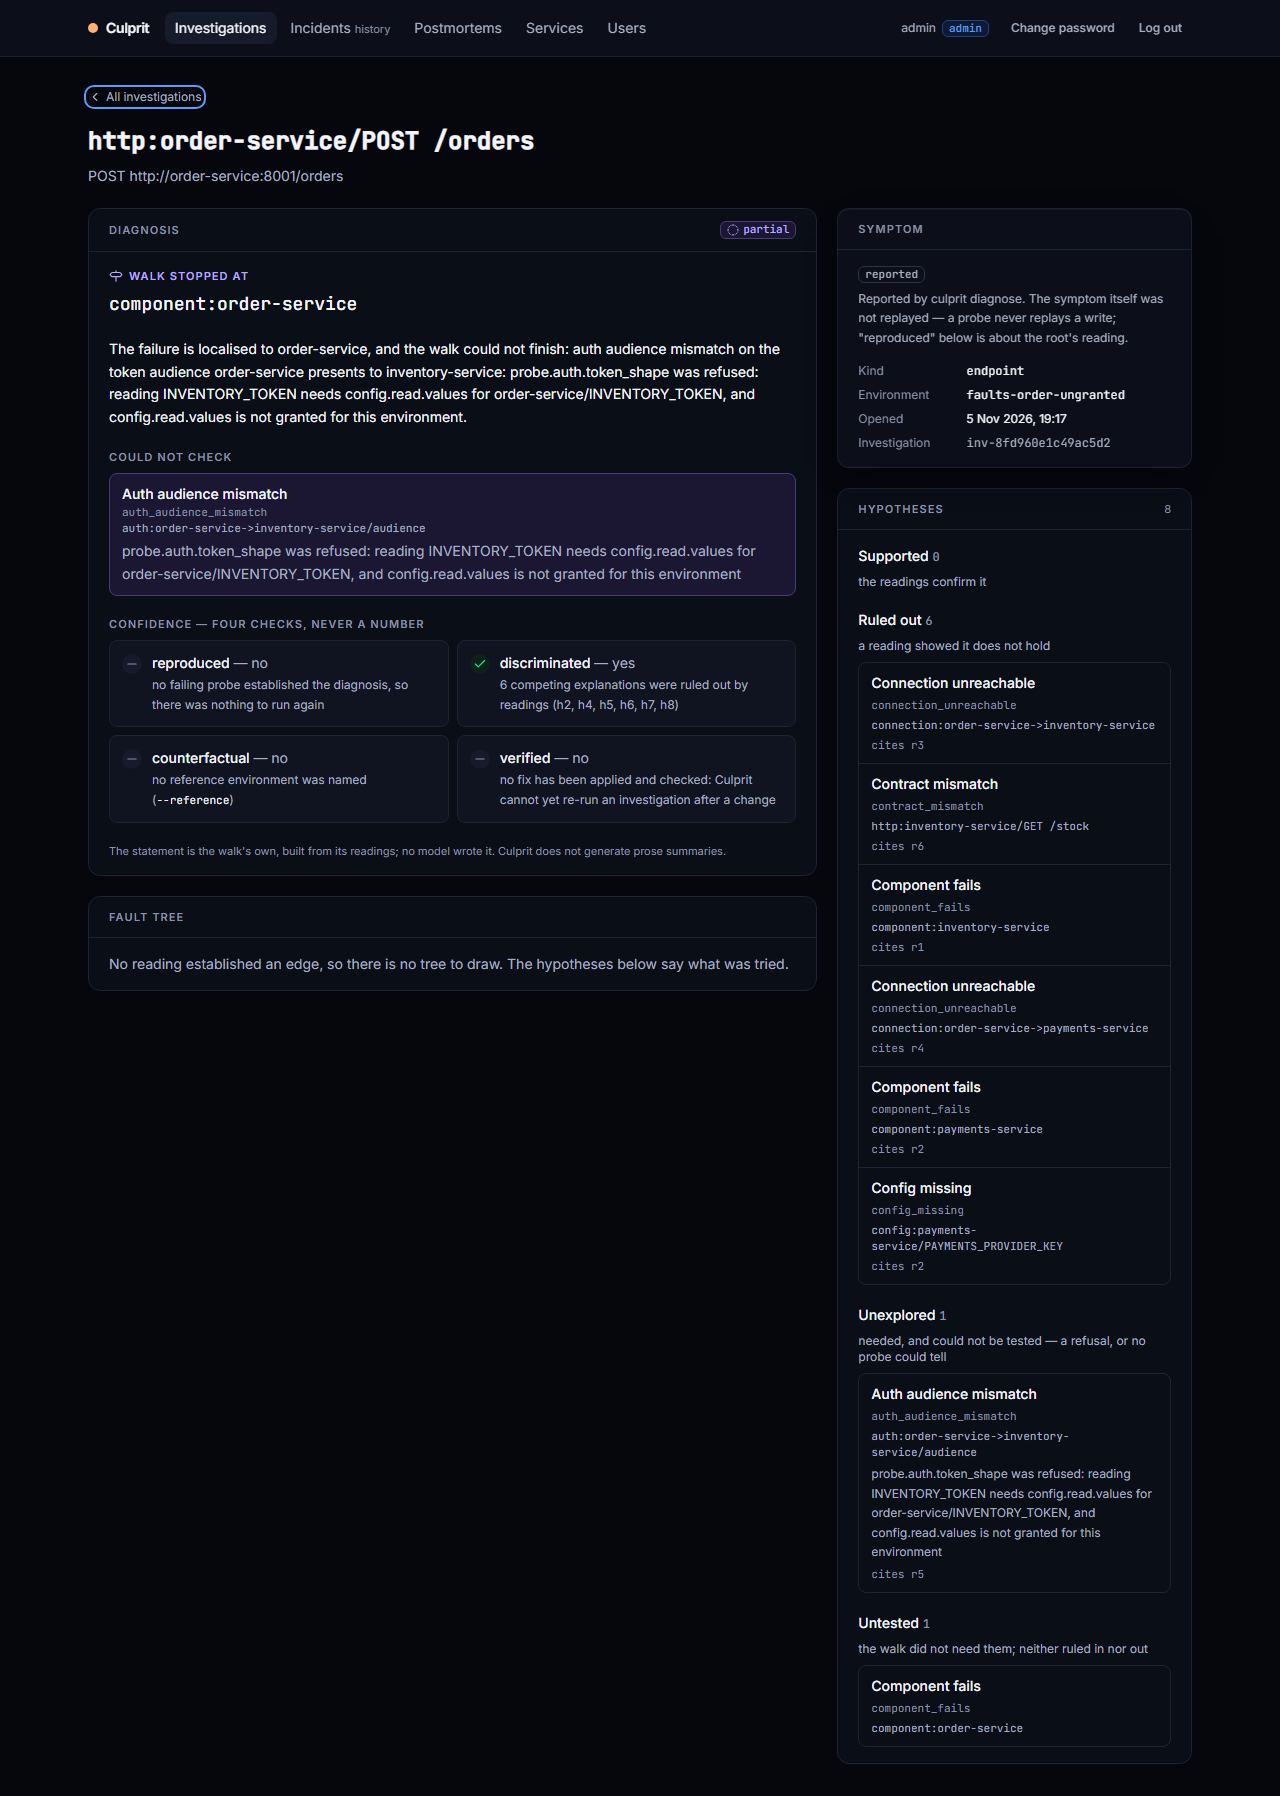
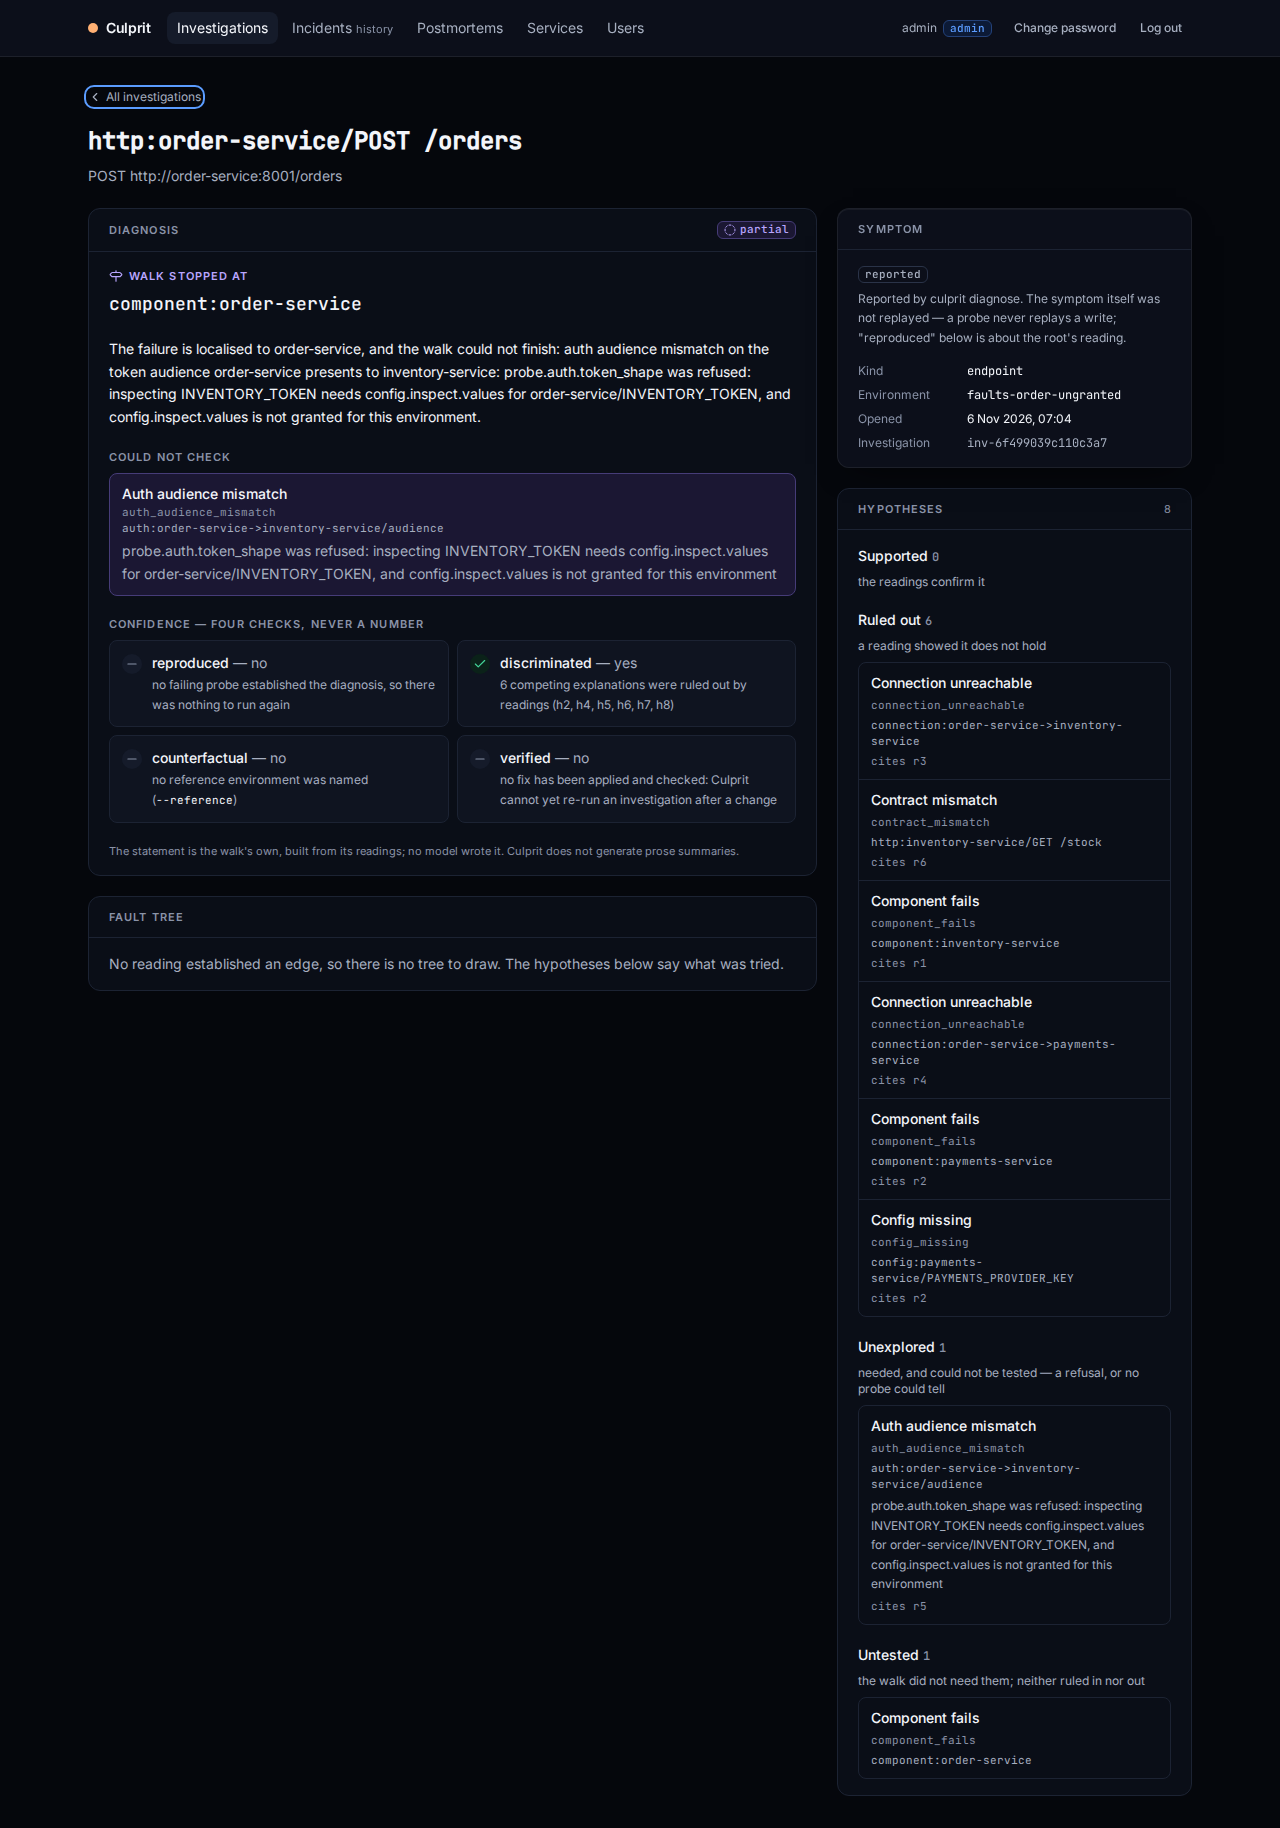
ci fix

diff --git a/cli/cmd/culprit/agent_e2e_test.go b/cli/cmd/culprit/agent_e2e_test.go
@@ -77,11 +77,13 @@ func TestTheAgentEndToEnd(t *testing.T) {
 	}
 
 	// Agent B: the same, and config.inspect.values for the token it must
-	// inspect, over the demo model as it is.
+	// inspect, over the demo model as it is. The fault first: it recreates
+	// order-service with the wrong token, which would take an agent already
+	// installed in that container with it.
+	restore = stack.inject("auth-audience")
 	audience := newInContainerAgent(t, stack, base, admin, plane, "e2e-audience",
 		network+"      config.inspect.values: [order-service/INVENTORY_TOKEN]\n", "")
 	audience.allow(t, append([]string{"config.inspect.values"}, networkGrants...))
-	restore = stack.inject("auth-audience")
 	rooted := audience.diagnose(t, "POST http://order-service:8001/orders")
 	restore()
 	if rooted["root_subject"] != "auth:order-service->inventory-service/audience" {

diff --git a/README.md b/README.md
@@ -60,7 +60,7 @@ score.
 A partial one is shown as where the walk stopped and what it could not
 check — never as a root or a cause:
 
-![A partial investigation: "Walk stopped at component:order-service", and under "Could not check" the audience hypothesis, refused because config.read.values was not granted](docs/screenshots/investigation-partial-1280.png)
+![A partial investigation: "Walk stopped at component:order-service", and under "Could not check" the audience hypothesis, refused because config.inspect.values was not granted](docs/screenshots/investigation-partial-1280.png)
 
 <p>
   <img src="docs/screenshots/investigations-1280.png" width="66%" alt="The investigations list: each run's symptom, its root or where the walk stopped, and whether it is complete or partial">
